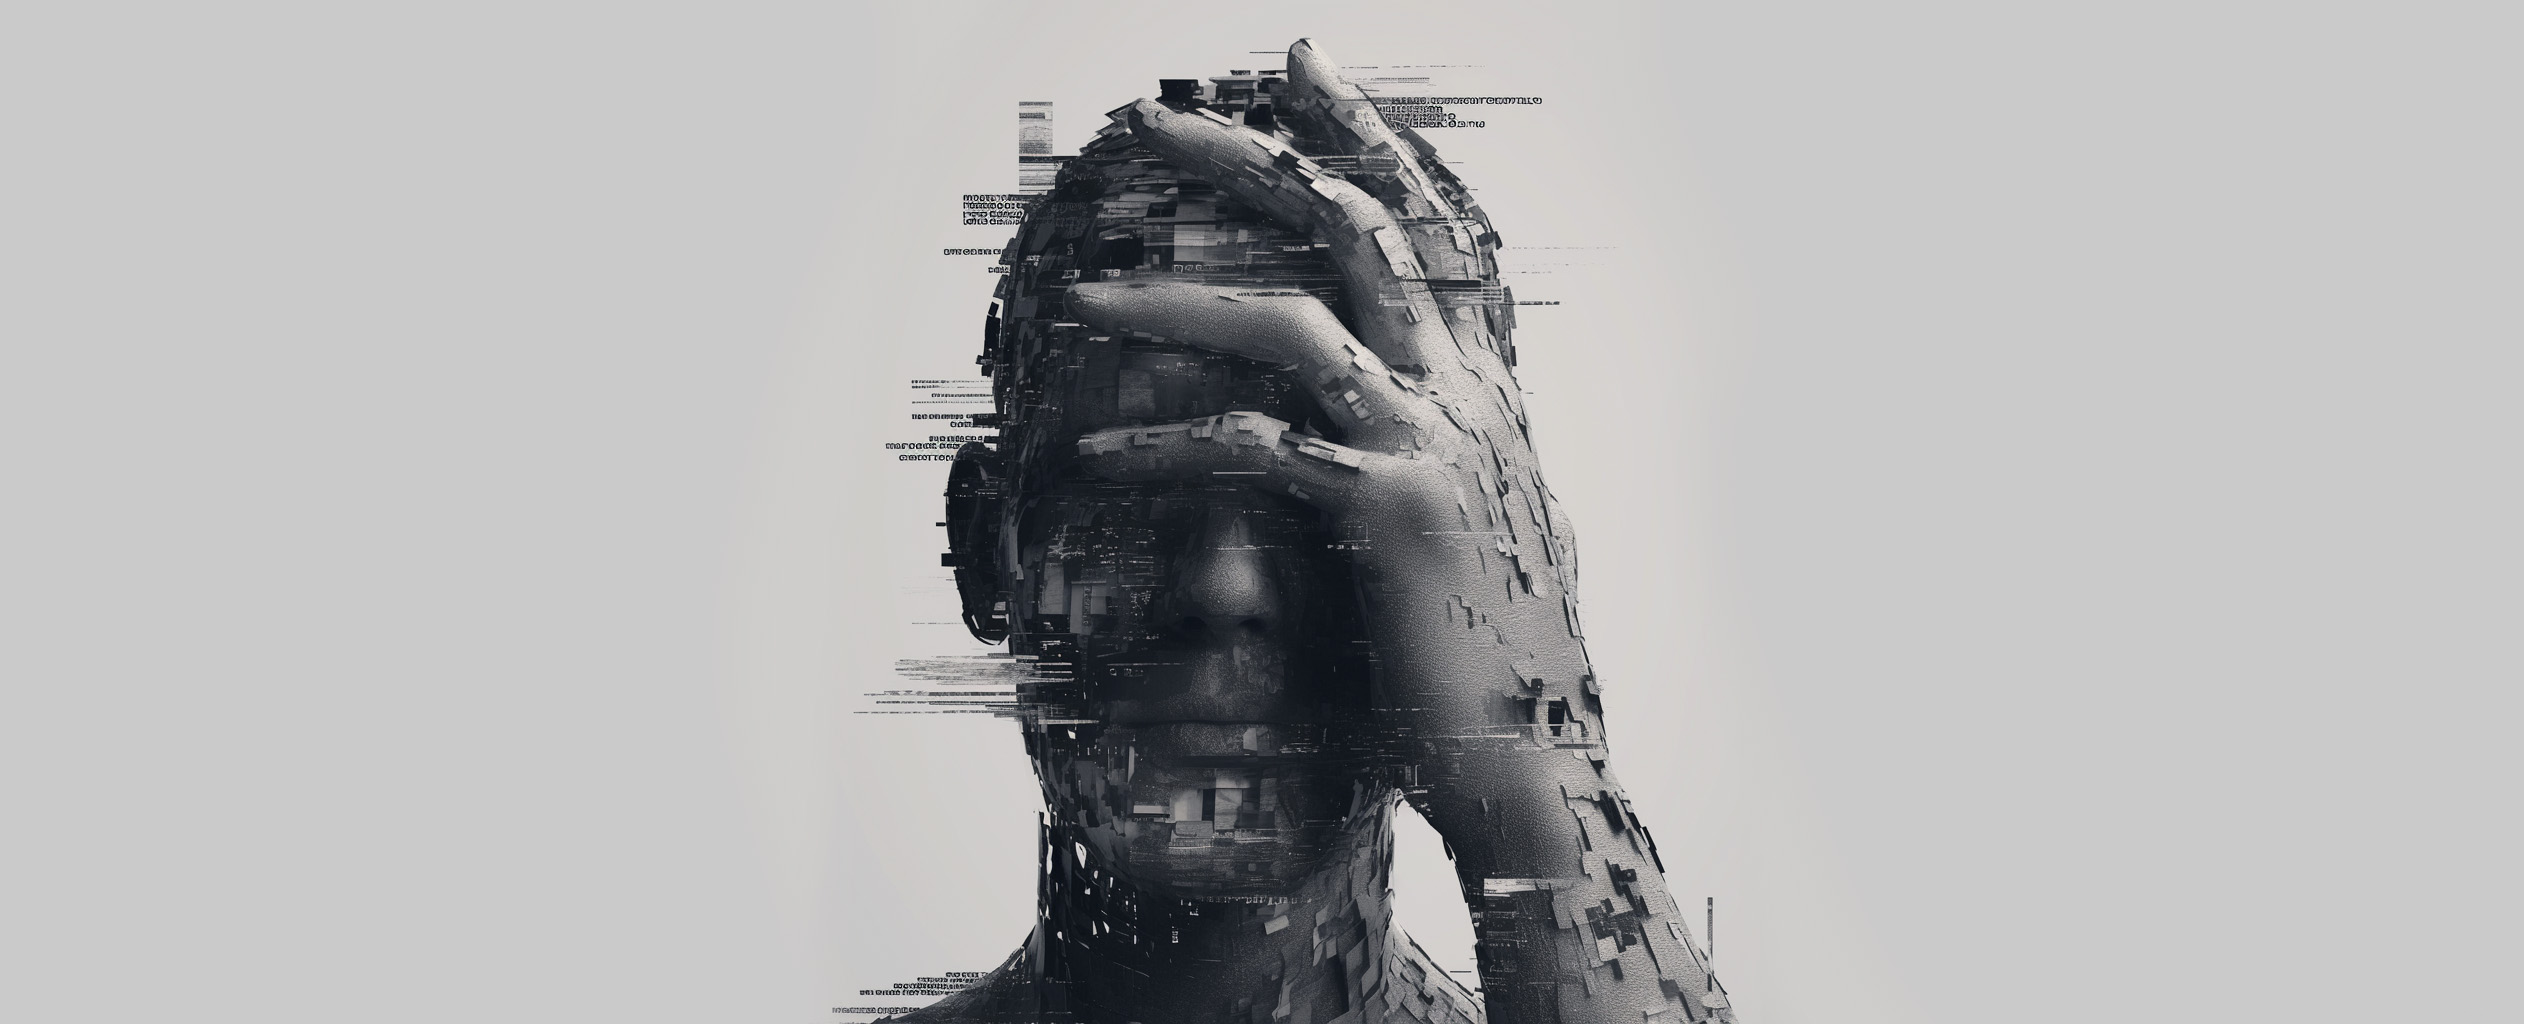
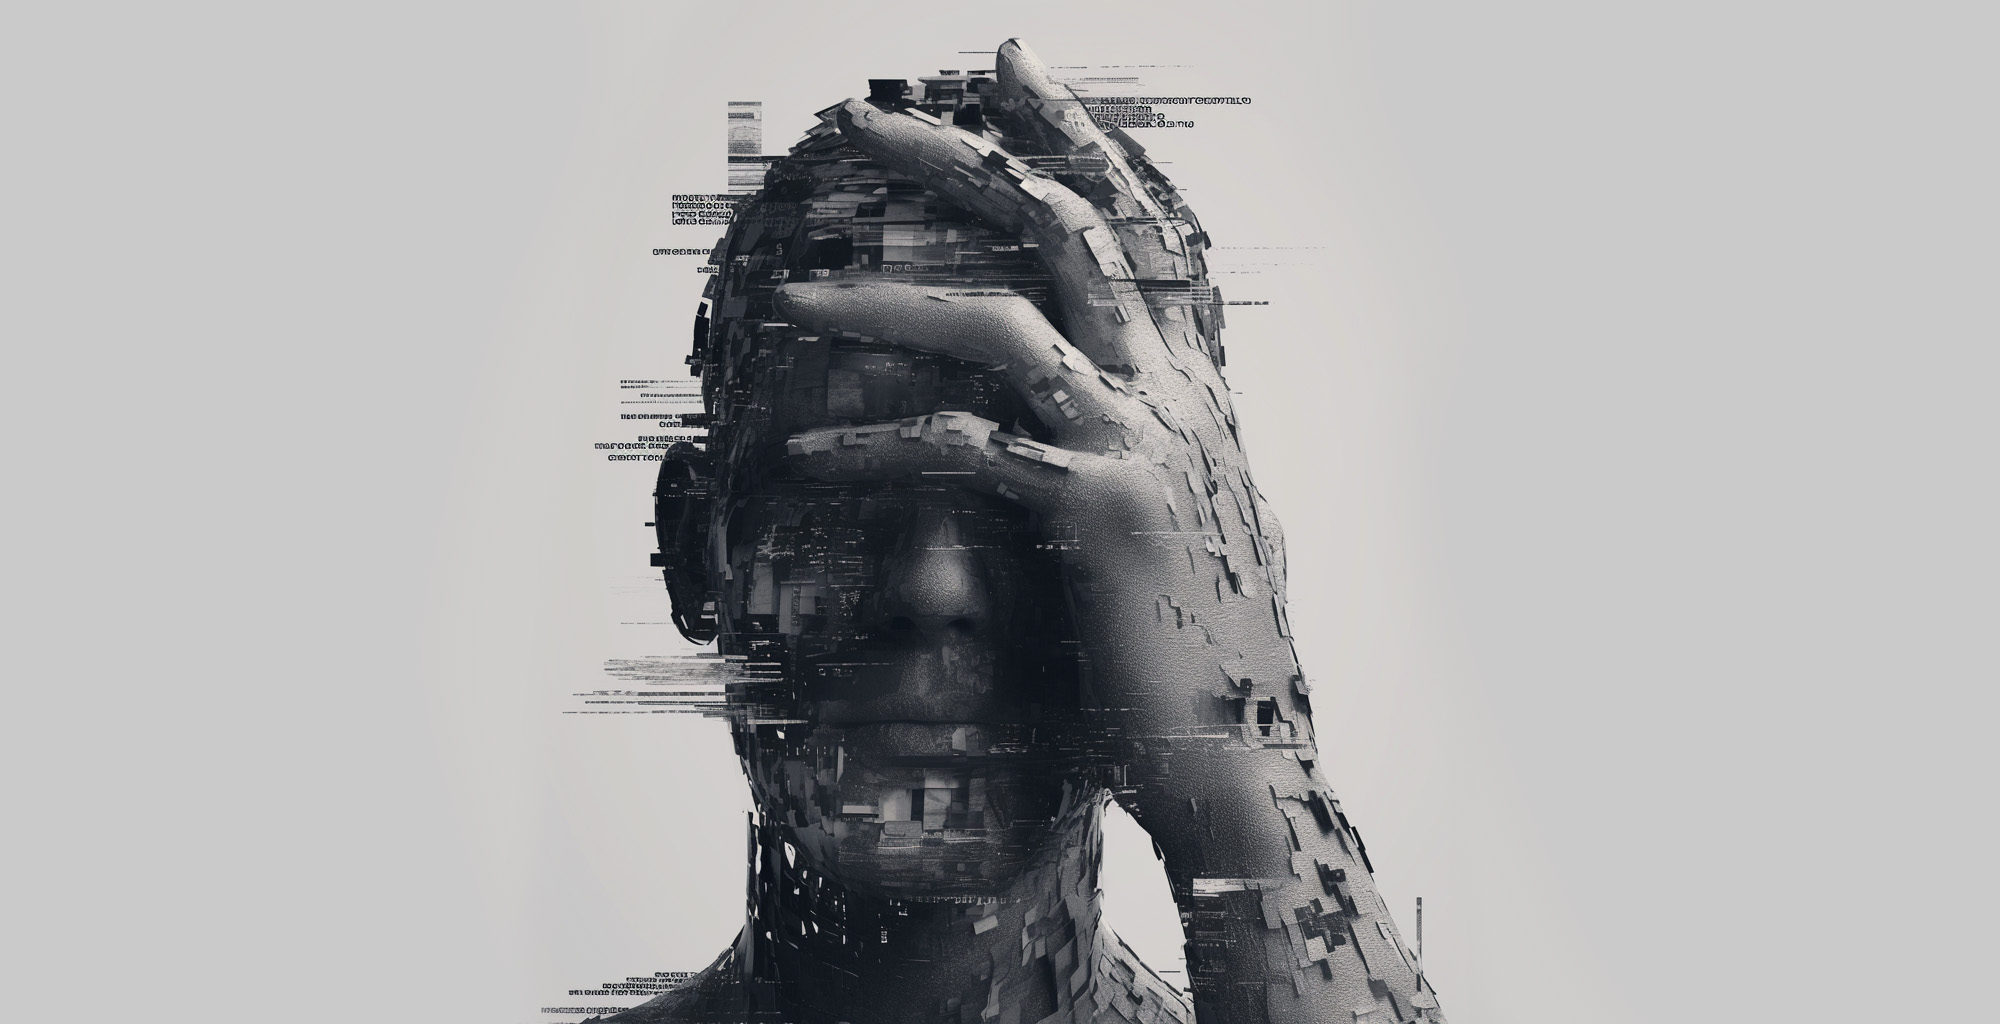
섹션 에니메이팅 설정

Changed region(s): [[0.279, 0.0312, 0.744, 1.0]]

diff --git a/src/app/page.tsx b/src/app/page.tsx
@@ -8,7 +8,10 @@ import { Banner } from "./page.component";
 
 export default function Page() {
   const firstSectionRef = useRef<HTMLDivElement>(null);
-  const [bannerBgColor, setBannerBgColor] = useState("transparent");
+  const mainRef = useRef<HTMLElement>(null);
+  const [loadCheck, setLoadCheck] = useState(false);
+  const [mainTop, setMainTop] = useState(0);
+  const sectionRef1 = useRef<HTMLDivElement>(null);
 
   const handleShowMoreClick = () => {
     if (firstSectionRef.current) {
@@ -16,95 +19,143 @@ export default function Page() {
     }
   };
 
-  const handleScroll = () => {
-    const scrollY = window.scrollY;
-    if (scrollY > 50) {
-      setBannerBgColor("#FFF");
-    } else {
-      setBannerBgColor("transparent");
+  const handleScroll = (e: Event) => {
+    const mainScrollTop = mainRef.current?.scrollTop || 0;
+    setMainTop(mainScrollTop);
+  };
+
+  const animateStyle = (data: { target: React.RefObject<HTMLDivElement>; startEnd?: string; percent?: number; gap?: number; test?: string }) => {
+    let result = 1;
+
+    if (loadCheck && data.target.current) {
+      const mainHeight = mainRef.current?.clientHeight || 0;
+      const mainBottom = mainTop + mainHeight || 0;
+
+      const targetTop = mainTop + data.target.current?.getBoundingClientRect().top;
+      const targetHeight = data.target.current?.clientHeight || 0;
+      const targetBottom = targetTop + targetHeight;
+
+      if (data.startEnd === "bottomTop") {
+        // bottomTop
+        result = 1 - (targetTop - mainTop) / (mainHeight - targetHeight);
+      } else if (data.startEnd === "topTop") {
+        // topTop
+        result = 1 - (targetTop - mainTop) / mainHeight;
+      } else if (data.startEnd === "bottomBottom") {
+        // bottomBottom
+        result = (mainBottom - targetBottom) / targetTop;
+      } else {
+        // topBottom
+        result = 1 - (targetBottom - mainTop) / targetBottom;
+      }
+
+      if (result > 1) {
+        result = 1;
+      } else if (result < 0) {
+        result = 0;
+      }
+
+      if (data.percent) {
+        result = result * data.percent;
+      }
+
+      if (data.gap) {
+        result = result + data.gap;
+      }
     }
+
+    return result;
   };
 
   useEffect(() => {
-    window.addEventListener("scroll", handleScroll);
+    setLoadCheck(true);
+  }, ["mainRef"]);
+
+  useEffect(() => {
+    const mainElement = mainRef.current;
+    if (mainElement) {
+      mainElement.addEventListener("scroll", handleScroll);
+    }
     return () => {
-      window.removeEventListener("scroll", handleScroll);
+      if (mainElement) {
+        mainElement.removeEventListener("scroll", handleScroll);
+      }
     };
   }, []);
 
   return (
     <>
-      <main className={commonStyles.main}>
-        <Banner onShowMoreClick={handleShowMoreClick} bgColor={bannerBgColor} />
+      <main className={commonStyles.main} ref={mainRef}>
+        <Banner onShowMoreClick={handleShowMoreClick} />
 
         {/* 1 */}
-        <section className={styles.section}>
-          <div className={styles.sectionBgLayer} style={{ backgroundColor: "#cbcaca" }}>
-            <Image src={"/images/bg_1.jpg"} alt={""} className={styles.sectionBg} width={0} height={0} />
+        <section className={styles.section} ref={sectionRef1}>
+          <div className={styles.sectionBg} style={{ backgroundColor: "#cbcaca" }}>
+            <Image
+              className={styles.sectionBgImage}
+              src={"/images/bg_1.jpg"}
+              alt={""}
+              objectFit="contain"
+              width={0}
+              height={0}
+              style={{
+                transform: `translate(${animateStyle({ target: sectionRef1, percent: 40, gap: -17 })}%, ${animateStyle({ target: sectionRef1, percent: -25 })}%) scale(${animateStyle({ target: sectionRef1, percent: 0.5, gap: 1 })})`,
+                opacity: animateStyle({ target: sectionRef1, startEnd: "bottomBottom", percent: -1, gap: 1 }),
+              }}
+            />
           </div>
-          <div className={styles.sectionContentLayer}></div>
+          <div className={styles.sectionBox}>
+            <h2 className={styles.sectionTitle}>About Me</h2>
+            <p className={styles.sectionDescription}>
+              안녕하세요 노주훈의 포트폴리오 사이트에 오신 것을 환영합니다.
+              <br />이 사이트는 저의 프론트엔드 개발자로서의 기술과 프로젝트를 소개하는 공간입니다.
+            </p>
+          </div>
         </section>
 
         {/* 2 */}
-        <section className={styles.section}>
+        {/* <section className={styles.section}>
           <div className={styles.sectionBgLayer} style={{ backgroundColor: "#64666a" }}>
             <Image src={"/images/bg_2.jpg"} alt={""} className={styles.sectionBg} width={0} height={0} />
           </div>
           <div className={styles.sectionContentLayer}></div>
-        </section>
+        </section> */}
 
         {/* 3 */}
-        <section className={styles.section}>
+        {/* <section className={styles.section}>
           <div className={styles.sectionBgLayer} style={{ backgroundColor: "#cbcaca" }}>
             <Image src={"/images/bg_3.jpg"} alt={""} className={styles.sectionBg} width={0} height={0} />
           </div>
           <div className={styles.sectionContentLayer}></div>
-        </section>
+        </section> */}
 
         {/* 4 */}
-        <section className={styles.section}>
+        {/* <section className={styles.section}>
           <div className={styles.sectionBgLayer} style={{ backgroundColor: "#d9d6c8" }}>
             <Image src={"/images/bg_4.jpg"} alt={""} className={styles.sectionBg} width={0} height={0} />
           </div>
           <div className={styles.sectionContentLayer}></div>
-        </section>
+        </section> */}
 
         {/* 5 */}
-        <section className={styles.section}>
-          <div className={styles.sectionBgLayer} style={{ backgroundColor: "#bbbaba" }}>
+        {/* <section className={styles.section}>
+          <div className={styles.sectionBgLayer} style={{ backgroundColor: "#939e9c" }}>
             <Image src={"/images/bg_5.jpg"} alt={""} className={styles.sectionBg} width={0} height={0} />
           </div>
           <div className={styles.sectionContentLayer}></div>
-        </section>
-
-        {/* 6 */}
-        <section className={styles.section}>
-          <div className={styles.sectionBgLayer} style={{ backgroundColor: "#929e9a" }}>
-            <Image src={"/images/bg_6.jpg"} alt={""} className={styles.sectionBg} width={0} height={0} />
-          </div>
-          <div className={styles.sectionContentLayer}></div>
-        </section>
+        </section> */}
 
         {/* 0 */}
-        <section className={styles.section}>
-          <div className={styles.sectionBgLayer} style={{ backgroundColor: "#04050a" }}>
-            <Image src={"/images/bg_0.jpg"} alt={""} className={styles.sectionBg} width={0} height={0} />
+        {/* <section className={styles.section}>
+          <div className={styles.sectionBgLayer} style={{ backgroundColor: "#1b1b1c" }}>
+            <Image src={"/images/bg_0.jpg"} alt={""} fill objectFit="contain" width={0} height={0} />
           </div>
           <div className={styles.sectionContentLayer}></div>
-        </section>
+        </section> */}
 
         <div className={commonStyles.sectionContainer} ref={firstSectionRef}>
           {/* About Me */}
-          <section className={commonStyles.section}>
-            <div className={commonStyles.sectionTitleWrap}>
-              <h2 className={commonStyles.sectionTitle}>About Me</h2>
-            </div>
-            <div className={commonStyles.sectionContentWrap}>
-              <div className={commonStyles.sectionContent}>
-                <p className={commonStyles.sectionContentDescription}>안녕하세요 노주훈의 포트폴리오 사이트에 오신 것을 환영합니다. 이 사이트는 저의 프론트엔드 개발자로서의 기술과 프로젝트를 소개하는 공간입니다.</p>
-              </div>
-            </div>
-          </section>
+          <section className={commonStyles.section}></section>
 
           {/* Work Experiences */}
           <section className={`${commonStyles.section} ${commonStyles.is_flex}`}>

diff --git a/src/app/page.module.css b/src/app/page.module.css
@@ -1,30 +1,55 @@
 /* Section */
 .section {
-  position: relative;
-}
-
-.sectionBgLayer {
-  position: relative;
   display: flex;
-  min-height: 300px;
-  overflow: hidden;
+  position: relative;
 }
 
 .sectionBg {
-  position: absolute;
-  top: 0;
-  left: 50%;
-  transform: translateX(-50%);
-  width: auto;
-  height: 100%;
-}
-
-.sectionContentLayer {
+  display: flex;
+  align-items: center;
+  justify-content: center;
   position: absolute;
   left: 0;
   top: 0;
   width: 100%;
   height: 100%;
+  overflow: hidden;
+}
+
+.sectionBgImage {
+  flex: none;
+  width: auto;
+  height: 100%;
+  transition: all 0.3s ease-out;
+}
+
+.sectionBox {
+  display: flex;
+  flex-direction: column;
+  align-items: center;
+  justify-content: center;
+  gap: 16px;
+  width: 100%;
+  min-height: 100px;
+  padding: 80px 60px;
+  z-index: 1;
+}
+
+.sectionTitle {
+  font-size: 32px;
+  font-weight: var(--bold);
+  line-height: 1.1;
+  color: var(--white);
+  text-align: center;
+  text-shadow: 0 2px 4px rgba(0, 0, 0, 0.5);
+}
+
+.sectionDescription {
+  font-size: 16px;
+  line-height: 1.8;
+  color: var(--white);
+  text-align: center;
+  text-shadow: 0 2px 4px rgba(0, 0, 0, 0.5);
 }
 
 /* Banner */
@@ -51,6 +76,7 @@
 
 .bannerTextTitle {
   display: inline-block;
+  position: relative;
   font-weight: var(--bold);
   line-height: 1.1;
   font-size: 82px;
@@ -61,6 +87,19 @@
   -webkit-text-fill-color: transparent;
 }
 
+.bannerTextTitle::after {
+  display: block;
+  content: "Hello\AI'm JooHoon";
+  position: absolute;
+  left: 0;
+  top: 0;
+  white-space: pre-wrap; /* 또는 pre */
+  -webkit-background-clip: text;
+  -webkit-text-fill-color: transparent;
+  text-shadow: 0 2px 4px rgba(0, 0, 0, 0.5);
+  z-index: -1;
+}
+
 .bannerTextDescription {
   display: inline-block;
   font-size: 16px;
@@ -68,6 +107,7 @@
   line-height: 2;
   color: var(--white);
   margin-top: 12px;
+  text-shadow: 0 2px 4px rgba(0, 0, 0, 0.5);
 }
 
 .bannerSlider {
@@ -120,6 +160,23 @@
 }
 
 @media all and (max-width: 768px) {
+  /* Section */
+  .sectionBox {
+    padding: 80px 16px;
+    gap: 8px;
+  }
+
+  .sectionTitle {
+    font-size: 26px;
+    line-height: 1.1;
+  }
+  
+  .sectionDescription {
+    font-size: 13px;
+    line-height: 1.6;
+  }
+
+  /* Banner */
   .bannerText {
     padding: 0 16px;
   }

diff --git a/src/app/page.component.tsx b/src/app/page.component.tsx
@@ -3,7 +3,7 @@ import pageStyles from "./page.module.css";
 import Image from "next/legacy/image";
 import KeyboardArrowDownIcon from "@mui/icons-material/KeyboardArrowDown";
 
-export function Banner({ onShowMoreClick, bgColor }: { onShowMoreClick: () => void, bgColor: string }) {
+export function Banner({ onShowMoreClick }: { onShowMoreClick: () => void }) {
   const [windowWidth, setWindowWidth] = useState(0);
   const sliderRef = useRef<HTMLDivElement>(null);
   const [startX, setStartX] = useState(0);

diff --git a/src/app/globals.css b/src/app/globals.css
@@ -70,6 +70,7 @@ table {
 html,
 body,
 main {
+  overflow: hidden;
   height: 100%;
 }
 
